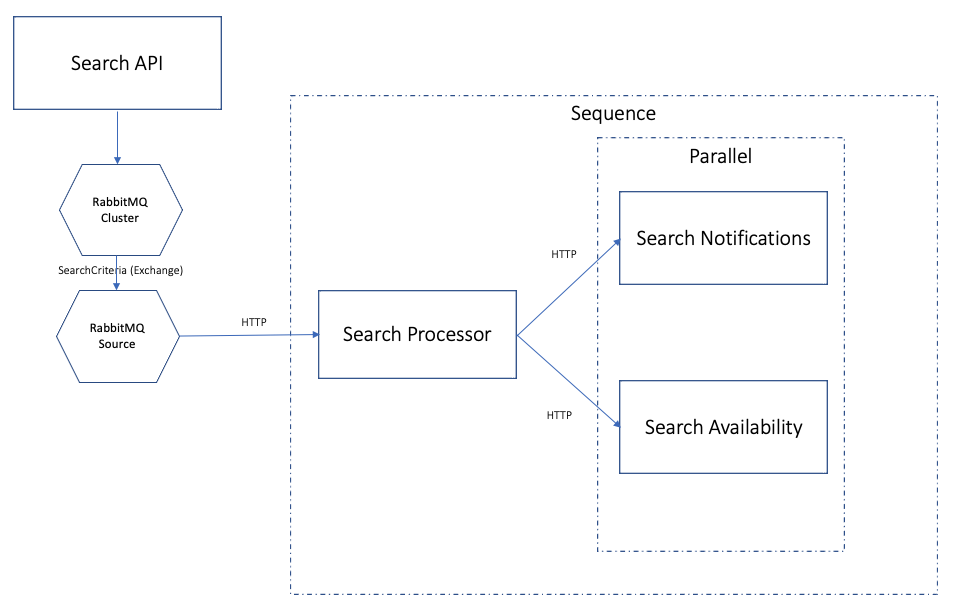
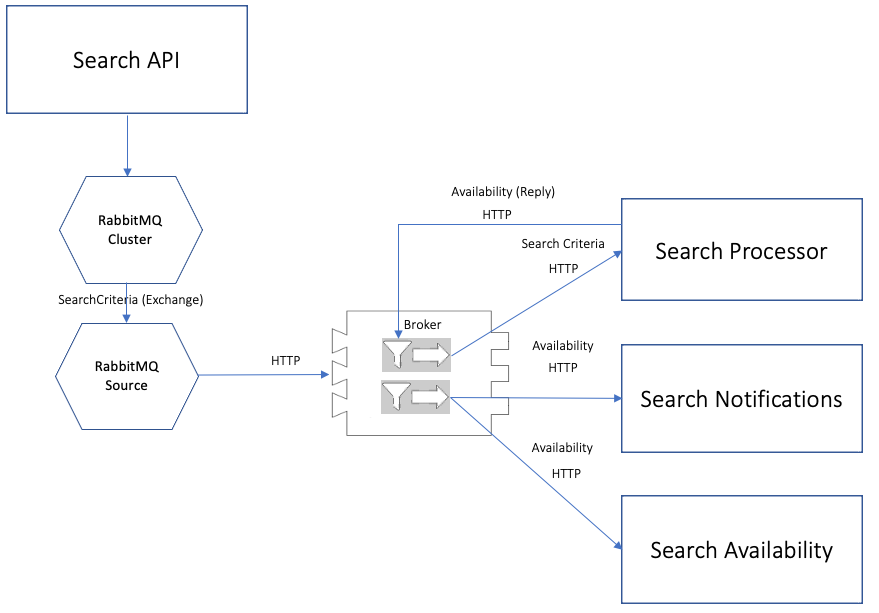
Updating KNative eventing diagram and documentation.
New diagram depics using broker/triggers vs sequence and parallel.  TAP
documentation also discusses the Cloud Event options in the accelerator.

diff --git a/doc/TAPDeployment.md b/doc/TAPDeployment.md
@@ -150,9 +150,9 @@ kubectl apply -f "https://github.com/rabbitmq/cluster-operator/releases/download
 
 If successfully installed, there will be an RabbitMQ cluster operator pod running in the `rabbitmq-system` namespace.
 
-### RabbitMQ Topology Operator (Experimental)
+### RabbitMQ Topology Operator
 
-If you choose to use the KNative eventing deployment option, you will also need to deploy the RabbitMQ Topology Operator.  This operator allows for the declarative creation of resources like RabbitMQ exchanges, queues, and bindings.  The topology operator is a dependency of the KNative RabbitMQ Source resource which will be covered in the next section. 
+If you choose to use the KNative eventing deployment option, you will also need to deploy the RabbitMQ Topology Operator.  This operator allows for the declarative creation of resources like RabbitMQ exchanges, queues, and bindings.  The topology operator is a dependency of the KNative RabbitMQ source resource.  The RabbitMQ source acts as a bridge between messages emitted by the `hungryman-search` application and the rest of the downstream services. 
 
 To install the RabbitMQ Topology operator, run the following command against your cluster. 
 
@@ -160,12 +160,7 @@ To install the RabbitMQ Topology operator, run the following command against you
 kubectl apply -f "https://github.com/rabbitmq/messaging-topology-operator/releases/latest/download/messaging-topology-operator-with-certmanager.yaml"
 ```
 
-### RabbitMQ Eventing Source (Experimental)
-
-If you choose to use the KNative eventing deployment option, you also need to deploy the KNatvie RabbitMQ Eventing Source resources.  The eventing source acts as a bridge between messages emitted by the `hungryman-search` application and the rest of the downstream services.
-
-*NOTE:* The RabbitMQ Eventing source is pre-installed into your TAP deployment if you have chosen to deploy the Cloud Native Runtimes package.  However; TAP versions 1.2.x and below do not have an up to date version that will work with some of the declared resources in these instructions.  These instruction require TAP 1.3.x or greater.
-
+*NOTE:* The RabbitMQ Eventing source is pre-installed into your TAP deployment if you have chosen to deploy the Cloud Native Runtimes package.  However; TAP versions 1.2.x and below do not have an up to date version that will work with some of the declared resources in these instructions.  The eventing model is only supported with TAP 1.3.x or greater.
 
 ## MySQL Installation
 
@@ -195,7 +190,9 @@ The accelerator contains the following configuration options:
 * **Database Type:** The type of database that will be used for the services to store data.  Current options are H2, MySQL, and Postgres (not yet supported).  If anything other than H2 is selected, you will be asked to configure additional database properties.
 * **Database Name:**  The name of the database resource that the micro-services will connect to.  If a new database resource is to be created, this will be the name of the resource.  This name will also be propagated to the `workload.yaml` files in the resource claim section to indicate the names of the database that micro-services should connect to.
 * **Create Database Definition:** If this box is checked, the accelerator will generate a file named `mysqlInstance.yaml` in the `config/service-operator` directory that contains the configuration to create the database instance.
-* **Create Resource Claim Definition for Service:** If this box is checked, the accelerator will generate configuration yaml file in the `config/app-operator` directory that contain the resource definition for the resource claims that the micro-services can use to create service bindings to external service like RabbitMQ and database.  It also creates resource definitions used by the Tanzu CLI to manage service instances and resource claims. 
+* **Create Resource Claim Definition for Service:** If this box is checked, the accelerator will generate a configuration yaml file in the `config/app-operator` directory that contains the resource definition for the resource claims that the micro-services can use to create service bindings to external service like RabbitMQ and database.  It also creates resource definitions used by the Tanzu CLI to manage service instances and resource claims. 
+* **Enable Cloud Events:** If this box is checked, the accelerator will generate a configuration yaml file in the `config/app-operator` directory that contains the resource definitions for the KNative eventing resources.  These include the RabbitMQ source as well as the broker and trigger configurations for routing events to downstream services.  This will also configure applicable services to remove the Spring Cloud Stream binding libraries from the build process.
+* **Enable Cloud Events:** If this box is checked, the KNative broker will use a RabbitMQ broker implementation.
 * **Enable Security:** If this box is checked, the accelerator configure the applications to use a `secure` profile that will require the UI application authenticate users and for micro-services to require valid oAuth tokens with each request.  The accelerator will also generate a file named `appSSOInstance.yaml` in the `config/service-operator` directory that contains the configuration to create an AppSSO authorization server.  It will also generate a file named `clientRegistrationResourceClaim.yaml` in the `config/app-operator` directory that contains configuration for creating a ClientRegistration resource as well as the resource claims that the micro-services can use to create service bindings to AppSSO instance (via the ClientRegistration).  **NOTE:**  Security is not completely functional at this time.
 * **AppSSO Instance Name:**  If security is enabled, the name of the AppSSO resource that the micro-services will connect to.  This name will also be propagated to the `workload.yaml` files in the resource claim section to indicate the names of the AppSOO resource that micro-services should connect to.
 * **Issuer URI:**  If security is enabled, this is the full issuer URI used by the AppSSO instance.  This URI will also be used to create `Service` and `HTTPProxy` resources for Ingress to the AppSSO instance.  Make sure the URI is routed to your cluster.  You will likely need to register the host name of the issuer URI with your DNS provider to route to your cluster's Ingress load balancer.

diff --git a/README.md b/README.md
@@ -55,9 +55,9 @@ The default build and deployment architecture uses Spring Cloud Streams as the a
 
 ### KNative Eventing 
 
-The `kneventing` branch of the Hungryman repository contains build configuration that removes Spring Cloud Streams dependencies and relies on the Spring Cloud Function webflux library for receiving events over HTTP.  KNative eventing fully embraces this paradigm and integrates seamlessly with functions exposed via the Spring Cloud Functions module.
+The *Cloud Events* option of the Hungryman application contains build configuration that removes Spring Cloud Streams dependencies and relies on the Spring Cloud Function webflux library for receiving events over HTTP.  KNative eventing fully embraces this paradigm and integrates seamlessly with functions exposed via the Spring Cloud Functions module.
 
-The architecture still uses Spring Cloud Streams as the messaging implementation for initially emitting searches, and then a KNative source implementation is inserted to create a bridge between the Spring Cloud Streams binding and the downstream KNative eventing concepts.  For the RabbitMQ implementation, a KNative RabbitMQ Source is declared to read events from a RabbitMQ exchange and propagate them through KNative eventing down to the subscribing services.  The following is a diagram of the KNative event concepts used for Hungryman:
+The architecture still uses Spring Cloud Streams as the messaging implementation for initially emitting searches, and a KNative `source` is inserted to create a bridge between the Spring Cloud Streams binding and the downstream KNative eventing concepts.  For the RabbitMQ implementation, a KNative RabbitMQ Source is declared to read events from a RabbitMQ exchange and propagate them through KNative eventing down to the subscribing services.  The following is a diagram of the KNative event concepts used for Hungryman:
 
 ![](doc/images/KNativeEventing.png)  
 
